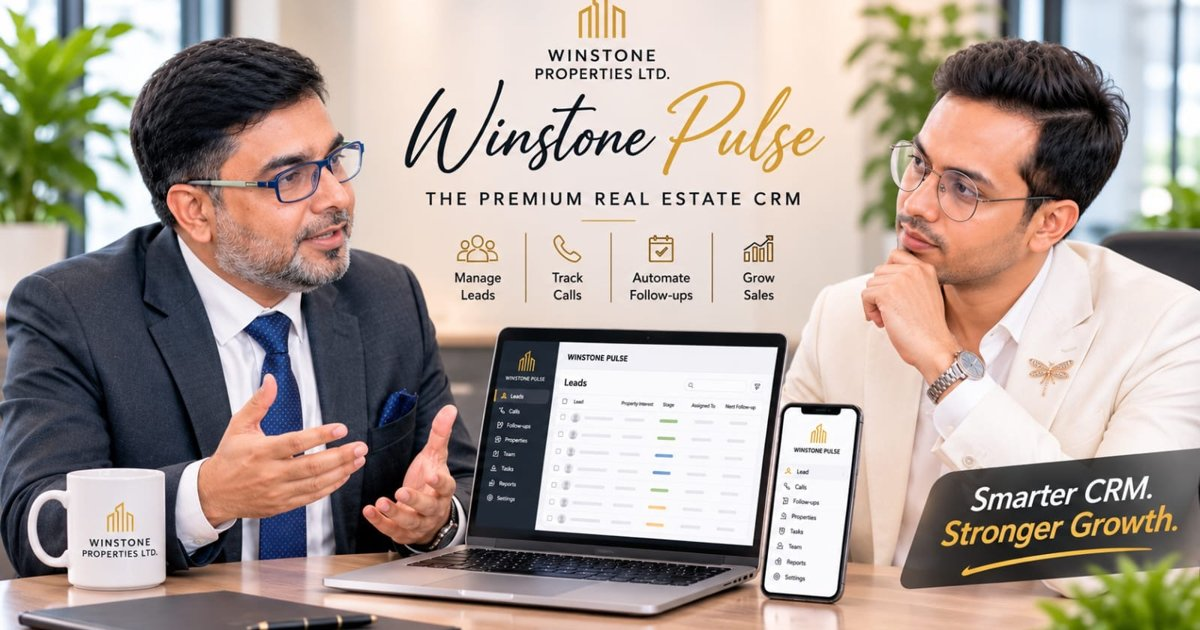
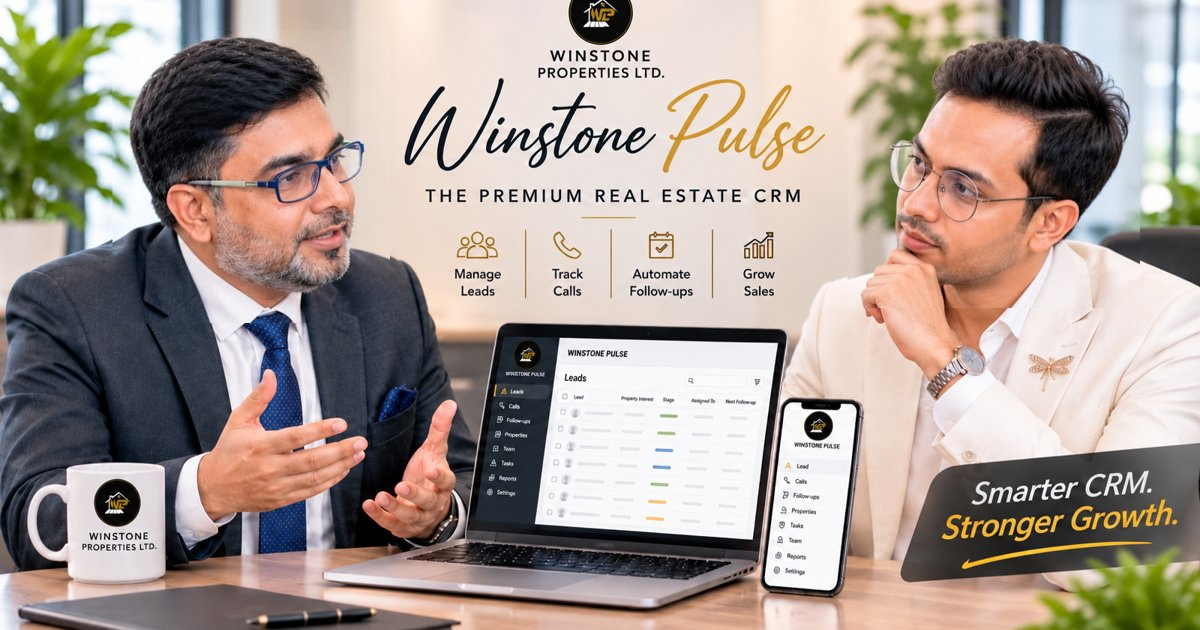
Changes

diff --git a/src/routes/index.tsx b/src/routes/index.tsx
@@ -21,7 +21,7 @@ import logoAsset from "@/assets/winstone-mark.png.asset.json";
 import androidAsset from "@/assets/device-android.webp.asset.json";
 import webAsset from "@/assets/device-web.webp.asset.json";
 import desktopAsset from "@/assets/device-desktop.webp.asset.json";
-import teamHeroAsset from "@/assets/home-team-hero-v6.webp.asset.json";
+import teamHeroAsset from "@/assets/home-team-hero-v7.webp.asset.json";
 import { AdminPinDialog } from "@/components/crm/AdminPinDialog";
 import { Button } from "@/components/ui/button";
 import { useMyAccount } from "@/lib/session";
